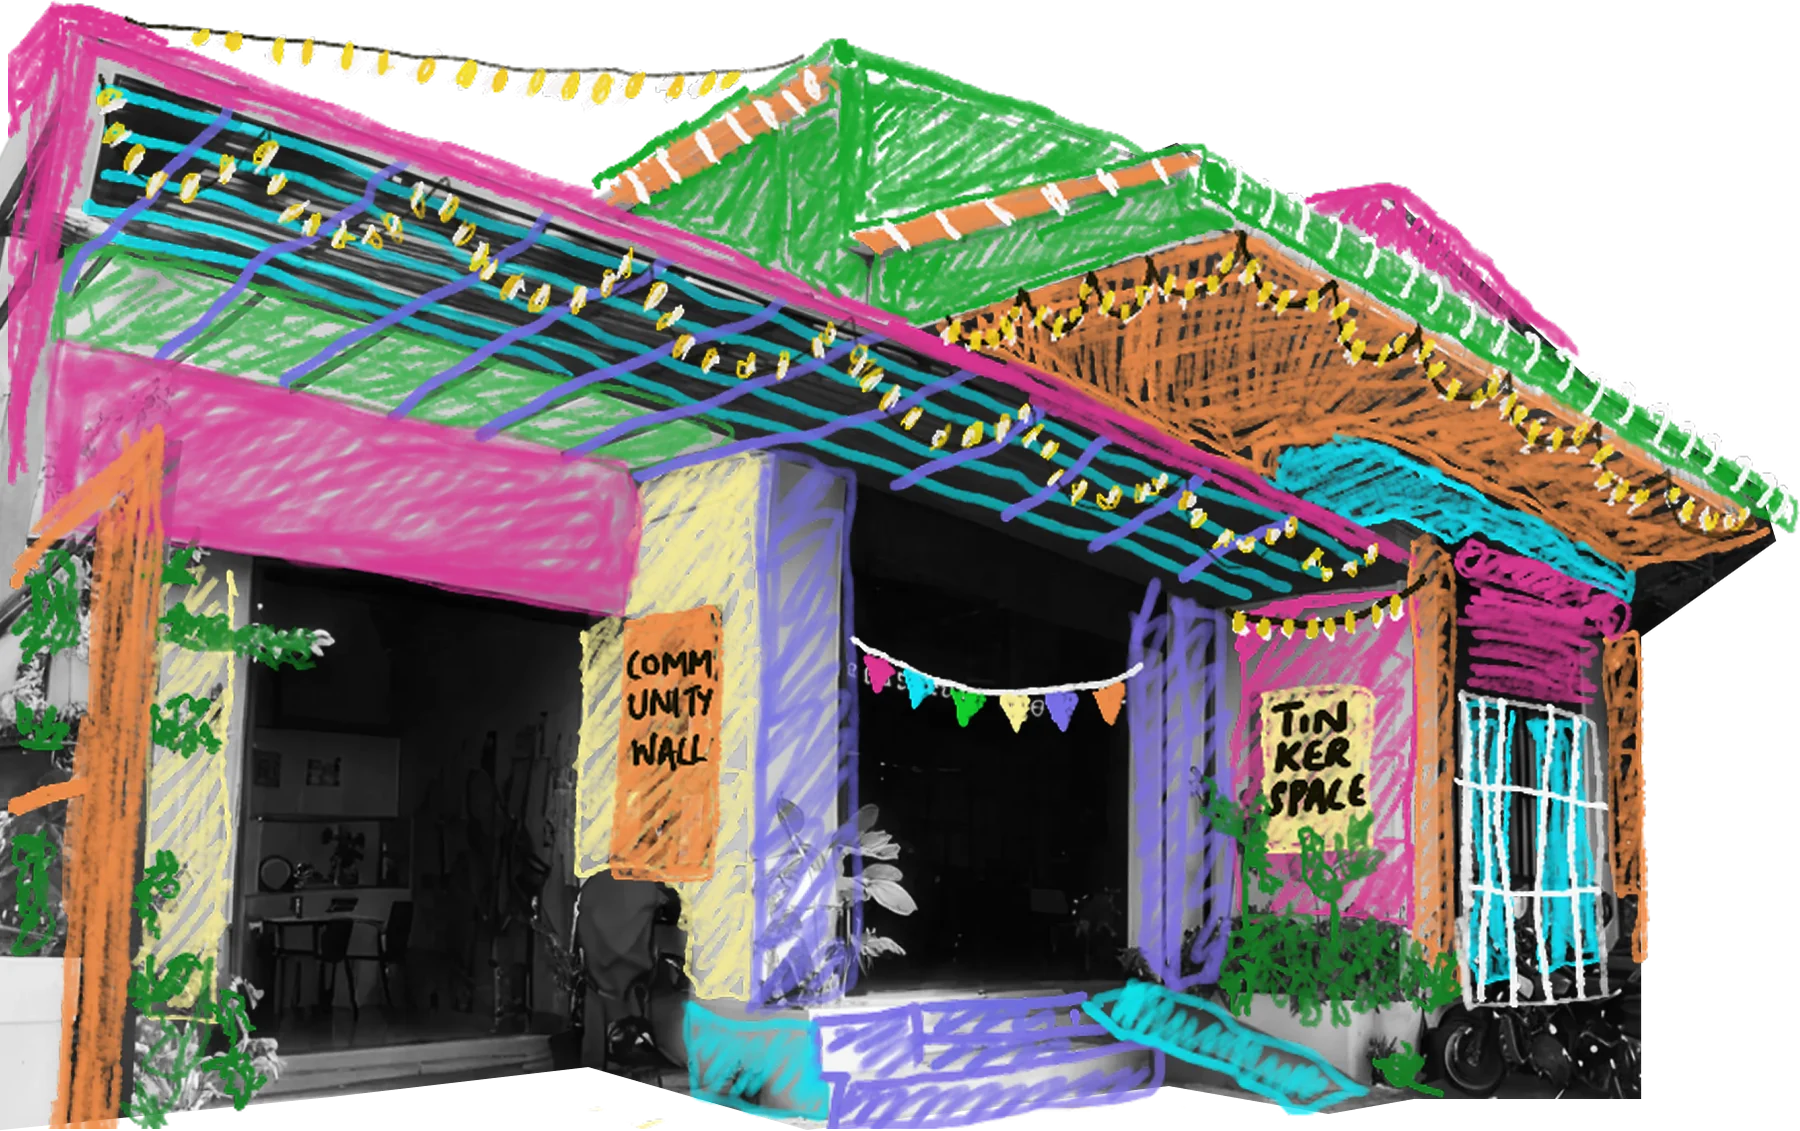
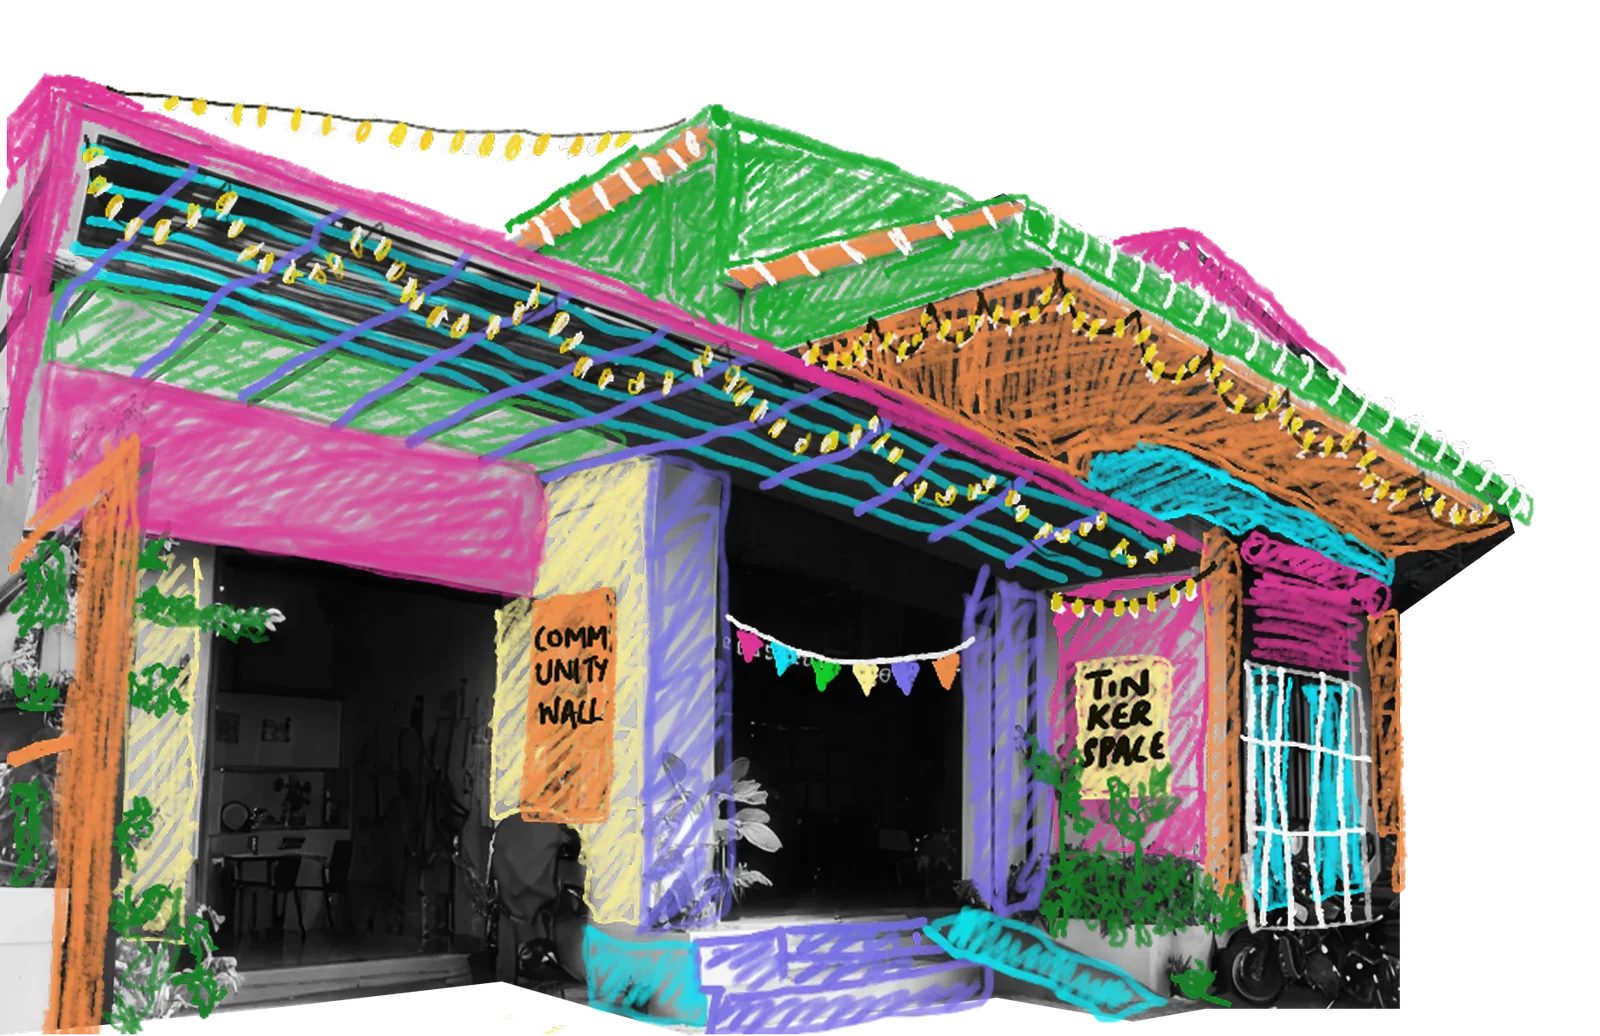
Lay out the landing page like the TV - 2 and Coming Soon posters
Desktop follows the TV - 2 frame and phones follow the portrait poster from
the Space carnival - 04 Figma file, with the Homemade Apple script title and
the yellow sticker linking to the badge competition.

diff --git a/index.html b/index.html
@@ -4,146 +4,143 @@
 <meta charset="utf-8">
 <meta name="viewport" content="width=device-width, initial-scale=1">
 <title>Space Carnival — TinkerSpace</title>
-<meta name="description" content="Space Carnival, Dec 19 & 20. Celebrating four years of TinkerSpace.">
-<meta name="theme-color" content="#1c0cec">
+<meta name="description" content="Space Carnival, Dec 19 & 20 at TinkerSpace Kochi. Celebrating four years of TinkerSpace.">
+<meta name="theme-color" content="#5c0fdb">
 <link rel="preconnect" href="https://fonts.googleapis.com">
 <link rel="preconnect" href="https://fonts.gstatic.com" crossorigin>
-<link href="https://fonts.googleapis.com/css2?family=Poppins:wght@500;600;700;800&display=swap" rel="stylesheet">
+<link href="https://fonts.googleapis.com/css2?family=Homemade+Apple&family=Poppins:wght@600;700;800&display=swap" rel="stylesheet">
 <style>
+  /* Built from the "Space carnival - 04" Figma file:
+     desktop follows the "TV - 2" frame (1280x720), phones follow "Instagram post - 3" (1080 wide). */
   :root {
-    --sky: #1c0cec;
-    --yellow: #ffd400;
-    --ink: #10082e;
-    --white: #fff;
+    --violet: #5c0fdb;
+    --yellow: #fde900;
+    --cream: #fefce3;
+    --ink: #000;
   }
 
   * { box-sizing: border-box; margin: 0; padding: 0; }
   html, body { height: 100%; overflow: hidden; }
-  /* crayon sky straight from the Figma artboard */
-  body {
-    background: var(--sky) url("assets/carnival/sky.jpg") center / cover no-repeat;
-    color: var(--white);
-    font-family: "Poppins", system-ui, sans-serif;
+  body { background: var(--violet); color: #fff; font-family: "Poppins", system-ui, sans-serif; }
+  /* the crayon texture sits on the violet in overlay mode, exactly like the Figma layer */
+  body::before {
+    content: ""; position: fixed; inset: 0; pointer-events: none;
+    background: url("assets/carnival/texture.jpg") center / cover;
+    mix-blend-mode: overlay; transform: rotate(180deg);
   }
 
-  /* 1920x1080 artboard for the text, scaled to fit and pinned to the bottom */
+  /* artboard in Figma units, scaled to fit by the script at the bottom */
   .stage {
-    position: absolute; left: 50%; bottom: 0; z-index: 3;
-    width: 1920px; height: 1080px;
-    transform-origin: 50% 100%;
-    transform: translateX(-50%) scale(var(--s, 1));
+    position: absolute; left: 0; bottom: 0;
+    width: 1280px; height: 720px;
+    transform-origin: 0 100%; transform: scale(var(--s, 1));
   }
   .stage > * { position: absolute; }
+  .stage img { display: block; }
 
-  .brand { left: 96px; top: 70px; width: 330px; }
-  .brand img { display: block; width: 100%; }
+  .brand { left: 61px; top: 37px; width: 196px; }
+  .wordmark { left: 1057px; top: 32px; width: 162px; }
+  .brand img, .wordmark img { width: 100%; }
 
-  .title { left: 84px; top: 150px; width: 640px; }
-  .title img { display: block; width: 100%; filter: drop-shadow(0 8px 0 rgba(16, 8, 46, .35)); }
+  .script {
+    left: 218px; top: 125px; width: 1030px; height: 193px;
+    display: flex; align-items: center; justify-content: center;
+    font: 400 123.5px/108px "Homemade Apple", cursive; white-space: nowrap;
+    transform: rotate(4.74deg);
+  }
+  .script br { display: none; }
 
-  .date { left: 100px; top: 492px; font-weight: 800; font-size: 76px; line-height: 1; letter-spacing: -.03em; }
-  .date span { color: var(--yellow); }
+  .building { left: 0; top: 162px; width: 935px; }
+  .mouse { left: 687px; top: 238px; width: 248px; animation: bob 2.8s ease-in-out infinite; }
+  .frog { left: 2px; top: 64px; width: 165px; transform: rotate(21.88deg); }
+  .frog img { width: 100%; animation: bob 3.4s ease-in-out infinite -1s; }
+  .stage .bear { display: none; }
+  @keyframes bob { 50% { translate: 0 -6px; } }
 
-  .tagline { left: 102px; top: 600px; max-width: 660px; font-weight: 500; font-size: 28px; line-height: 1.35; color: rgba(255, 255, 255, .9); }
+  .when { left: 968px; top: 392px; transform: rotate(-4.34deg); transform-origin: 0 0; }
+  .when .date { font-weight: 800; font-size: 50px; line-height: 1; letter-spacing: -.03em; }
+  .when .date span { color: var(--yellow); }
+  .when .sub { margin-top: 10px; font-weight: 600; font-size: 18px; color: var(--cream); }
 
-  /* badge competition call-to-action, the yellow pill from the Figma posters */
-  .badge-cta {
-    left: 100px; top: 730px; display: inline-flex; align-items: center; gap: 16px; height: 76px; padding: 0 28px 0 12px;
-    border-radius: 999px; text-decoration: none; color: var(--ink); white-space: nowrap;
-    font-weight: 700; font-size: 24px; letter-spacing: -.01em;
-    background: var(--yellow); border: 3px solid var(--ink); box-shadow: 0 7px 0 var(--ink);
+  /* the yellow "Apply with" sticker from the poster, pointing at the badge competition */
+  .sticker {
+    left: 962px; top: 548px; width: 268px; padding: 12px 18px 13px;
+    background: var(--yellow); color: var(--ink); border: 3px solid var(--ink); border-radius: 19px;
+    text-decoration: none; transform: rotate(-4.34deg);
+    box-shadow: 0 6px 0 var(--ink);
     transition: transform .15s, box-shadow .15s;
   }
-  .badge-cta:hover { transform: translateY(-3px); box-shadow: 0 10px 0 var(--ink); }
-  .badge-cta:active { transform: translateY(5px); box-shadow: 0 2px 0 var(--ink); }
-  .badge-cta:focus-visible { outline: 4px solid var(--white); outline-offset: 6px; }
-  .badge-cta .tag {
-    display: inline-flex; align-items: center; gap: 9px; height: 50px; padding: 0 20px; border-radius: 999px;
-    background: var(--white); border: 2px solid var(--ink); font-size: 19px;
-  }
-  .badge-cta .dot { width: 10px; height: 10px; border-radius: 50%; background: #16a34a; }
-  .badge-cta .meta { font-weight: 500; font-size: 20px; opacity: .7; }
-  .badge-cta svg { width: 26px; height: 26px; fill: none; stroke: currentColor; stroke-width: 2.8; stroke-linecap: round; stroke-linejoin: round; transition: transform .2s; }
-  .badge-cta:hover svg { transform: translateX(4px); }
+  .sticker:hover { transform: rotate(-4.34deg) translateY(-3px); box-shadow: 0 9px 0 var(--ink); }
+  .sticker:active { transform: rotate(-4.34deg) translateY(4px); box-shadow: 0 2px 0 var(--ink); }
+  .sticker:focus-visible { outline: 3px solid #fff; outline-offset: 5px; }
+  .sticker b { display: block; font-weight: 700; font-size: 19px; line-height: 1.1; letter-spacing: -.04em; }
+  .sticker small { display: flex; align-items: center; gap: 7px; margin-top: 6px; font-weight: 600; font-size: 14px; letter-spacing: -.02em; }
+  .sticker small i { width: 9px; height: 9px; border-radius: 50%; background: #16a34a; }
+  .sticker small em { margin-left: auto; font-style: normal; font-size: 18px; }
 
-  /* The carnival scene is pinned to the window's bottom-right corner.
-     Characters are placed in % of the building so they stay on the roof at any size. */
-  .scene {
-    position: fixed; right: 0; bottom: 0; z-index: 1; pointer-events: none;
-    width: min(calc(1150px * var(--s, 1)), 100vw); aspect-ratio: 1800 / 1131;
-  }
-  .scene img { position: absolute; display: block; }
-  .scene .building { inset: 0; width: 100%; }
-  .frog     { left: 0;     top: -27%; width: 14.5%; animation: bob 3.4s ease-in-out infinite; }
-  .monkey   { left: 15%;   top: -17%; width: 21%;   animation: sway 4s ease-in-out infinite; transform-origin: 50% 90%; }
-  .mouse    { left: 36.5%; top: -28%; width: 18%;   animation: bob 2.8s ease-in-out infinite -.8s; }
-  .bear     { left: 77%;   top: -38%; width: 16.5%; animation: bob 3.1s ease-in-out infinite -1.6s; }
-  .elephant { left: -23%;  bottom: 0; width: 19%;   animation: drum 1.6s ease-in-out infinite; transform-origin: 50% 100%; }
-  @keyframes bob { 50% { transform: translateY(-4%); } }
-  @keyframes sway { 25% { transform: rotate(-2.5deg); } 75% { transform: rotate(2.5deg); } }
-  @keyframes drum { 50% { transform: scaleY(.97); } }
+  .fade { animation: fade .8s ease-out backwards; }
+  .script.fade { animation-delay: .1s; }
+  .when.fade { animation-delay: .35s; }
+  .sticker.fade { animation-delay: .5s; }
+  @keyframes fade { from { opacity: 0; } }
 
-  .rise { animation: rise .9s cubic-bezier(.2, .8, .2, 1) backwards; }
-  .title.rise { animation-delay: .05s; }
-  .date.rise { animation-delay: .2s; }
-  .tagline.rise { animation-delay: .3s; }
-  .badge-cta.rise { animation-delay: .45s; }
-  @keyframes rise { from { opacity: 0; transform: translateY(24px); } }
-
-  /* Phones and portrait tablets: poster-style stack, sized in vw */
+  /* Phones: the portrait poster, with the date and sticker in the sky between title and roof */
   @media (max-aspect-ratio: 4/5) {
-    .stage { inset: 0; left: 0; width: auto; height: auto; transform: none; }
-    .brand { left: 6vw; top: 7vw; width: 40vw; }
-    .title { left: 5vw; top: 20vw; width: 72vw; }
-    .date { left: 6vw; top: 61vw; font-size: 10vw; }
-    .tagline { left: 6vw; top: 74vw; max-width: 86vw; font-size: 4.2vw; }
-    .badge-cta {
-      left: 6vw; right: 6vw; top: 93vw; height: 14vw; gap: 2vw; padding: 0 3.4vw 0 1.8vw;
-      font-size: 3.15vw; justify-content: space-between; border-width: 2px; box-shadow: 0 1.4vw 0 var(--ink);
-    }
-    .badge-cta .tag { height: 10vw; padding: 0 2.8vw; gap: 1.6vw; font-size: 3.1vw; }
-    .badge-cta .dot { width: 1.8vw; height: 1.8vw; }
-    .badge-cta .meta { display: none; }
-    .badge-cta svg { flex: none; width: 4.6vw; height: 4.6vw; }
-    /* the scene shrinks on short phones so the roof characters never reach the button */
-    .scene { width: min(100vw, (100vh - 112vw) / .87); }
-    .elephant { display: none; }
+    .stage { left: 50%; width: 1080px; height: 2300px; transform-origin: 50% 100%; transform: translateX(-50%) scale(var(--s, 1)); }
+    .brand { left: 36px; top: 124px; width: 268px; }
+    .wordmark { left: 824px; top: 117px; width: 222px; }
+    .script { left: 108px; top: 300px; width: 872px; height: 498px; font-size: 200px; line-height: 181px; transform: rotate(-9.85deg); }
+    .script br { display: inline; }
+    .when { left: 64px; top: 852px; transform: rotate(-4.34deg); }
+    .when .date { font-size: 104px; }
+    .when .sub { font-size: 36px; margin-top: 16px; }
+    .sticker { left: 64px; top: 1060px; width: 600px; padding: 22px 34px 24px; border-width: 5px; border-radius: 34px; box-shadow: 0 11px 0 var(--ink); }
+    .sticker b { font-size: 40px; }
+    .sticker small { font-size: 30px; gap: 14px; margin-top: 10px; }
+    .sticker small i { width: 18px; height: 18px; }
+    .sticker small em { font-size: 38px; }
+    .building { left: -18px; top: 1535px; width: 1233px; }
+    .stage .bear { display: block; left: 641px; top: 1086px; width: 583px; animation: bob 3.1s ease-in-out infinite -1.6s; }
+    .mouse { left: 300px; top: 1304px; width: 479px; }
+    .frog { left: 2px; top: 1272px; width: 290px; }
+    @keyframes bob { 50% { translate: 0 -12px; } }
   }
 
   @media (prefers-reduced-motion: reduce) {
-    .rise, .scene img { animation: none; }
+    .fade, .mouse, .frog img, .bear { animation: none; }
   }
 </style>
 </head>
 <body>
-  <div class="scene" aria-hidden="true">
-    <img class="elephant" src="assets/carnival/elephant.webp" alt="">
-    <img class="building" src="assets/carnival/building.webp" alt="">
-    <img class="frog" src="assets/carnival/frog.webp" alt="">
-    <img class="monkey" src="assets/carnival/monkey.webp" alt="">
-    <img class="mouse" src="assets/carnival/mouse.webp" alt="">
-    <img class="bear" src="assets/carnival/bear.webp" alt="">
-  </div>
-
   <main class="stage" aria-label="Space Carnival at TinkerSpace Kochi, December 19 and 20">
+    <img class="building" src="assets/carnival/building.webp" alt="Crayon drawing of TinkerSpace strung with fairy lights">
+    <img class="bear" src="assets/carnival/bear.webp" alt="">
+    <img class="mouse" src="assets/carnival/mouse.webp" alt="">
+    <div class="frog"><img src="assets/carnival/frog.webp" alt=""></div>
+
     <div class="brand"><img src="assets/logo.png" alt="TinkerSpace Kochi"></div>
+    <div class="wordmark"><img src="assets/carnival/wordmark.svg" alt=""></div>
 
-    <h1 class="title rise"><img src="assets/carnival/wordmark.svg" alt="Space Carnival"></h1>
+    <h1 class="script fade">Space <br>Carnival</h1>
 
-    <p class="date rise">Dec 19 <span>&amp;</span> 20</p>
+    <div class="when fade">
+      <p class="date">Dec 19 <span>&amp;</span> 20</p>
+      <p class="sub">TinkerSpace turns four · Kochi</p>
+    </div>
 
-    <p class="tagline rise">Four years of TinkerSpace. Come build, play and tinker with the community in Kochi.</p>
-
-    <a class="badge-cta rise" href="badge/">
-      <span class="tag"><i class="dot" aria-hidden="true"></i>Open</span>
-      <span>PCB Badge Design Competition</span>
-      <span class="meta">Closes Nov 26</span>
-      <svg viewBox="0 0 24 24" aria-hidden="true"><path d="M5 12h13M13 6l6 6-6 6"/></svg>
+    <a class="sticker fade" href="badge/">
+      <b>PCB Badge Design Competition</b>
+      <small><i aria-hidden="true"></i>Open · closes Nov 26<em aria-hidden="true">→</em></small>
     </a>
   </main>
 
 <script>
-  const fit = () => document.documentElement.style.setProperty('--s', Math.min(innerWidth / 1920, innerHeight / 1080));
+  const portrait = matchMedia('(max-aspect-ratio: 4/5)');
+  const fit = () => {
+    const [w, h] = portrait.matches ? [1080, 2300] : [1280, 720];
+    const el = document.documentElement;
+    el.style.setProperty('--s', Math.min(el.clientWidth / w, el.clientHeight / h));
+  };
   addEventListener('resize', fit);
   fit();
 </script>
